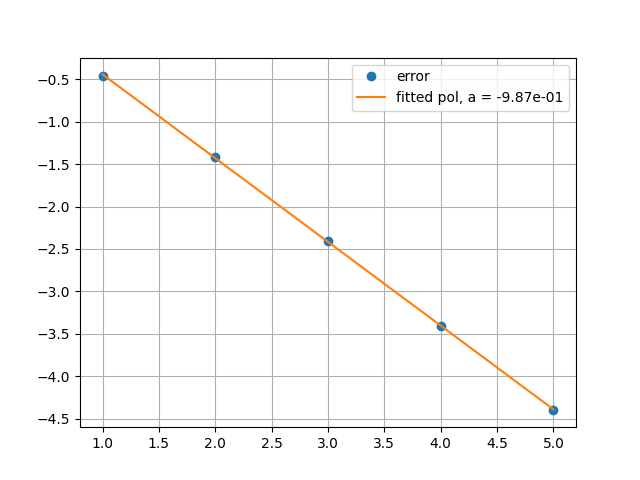
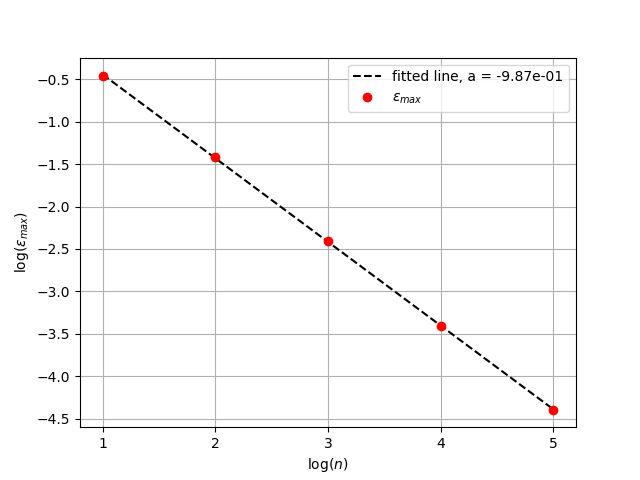
redid plots

diff --git a/project1/code/plot.py b/project1/code/plot.py
@@ -73,28 +73,30 @@ def comparisons(_n, type="original", solPlot=False, table=True, errPlot=False, t
             y = np.log10([a[2] for a in specs])
             label = "error"
             fileExt = "err"
+            yaxis = r"\epsilon_{max}"
         else:
             y = np.log10([a[1] for a in specs])
             label = "CPU time"
             fileExt = "time"
+            yaxis = "t"
 
         n = np.log10([a[0] for a in specs])
-        plt.plot(n, y, "o", label=label)
-        a, b = tuple(np.polyfit(n, y, deg=1))
         x = np.linspace(n[0], n[-1], 1000)
+        a, b = tuple(np.polyfit(n, y, deg=1))
 
-        plt.plot(x, a * x + b, label="fitted pol, a = %.2e" % a)
-        plt.xlabel
+        plt.plot(x, a * x + b, "--", c="k", label="fitted line, a = %.2e" % a)
+
+        plt.plot(n, y, "o", c="r", label=f"${yaxis}$")
+
+        plt.xlabel("$\log (n)$")
+        plt.ylabel(f"$\log ({yaxis})$")
         plt.grid()
         plt.legend()
+        plt.xticks(range(1, _n + 1))
         plt.savefig(f"figures/{fileExt}.{type}.{_n}.png")
         plt.show()
 
 
-# comparisons(3, "original", producePlot=True, produceTable=True)
-comparisons(3, "original", solPlot=True)
-# comparisons(5, "cpu", errPlot=True)
+# comparisons(3, "original", solPlot=True)
+comparisons(5, "cpu", errPlot=True)
 # comparisons(5, "cpu", timePlot=True)
-# plot_comparisons_original(3, True)
-# table_comparisons_cpu(6)
-# table_comparisons_cpu_ram(6)
